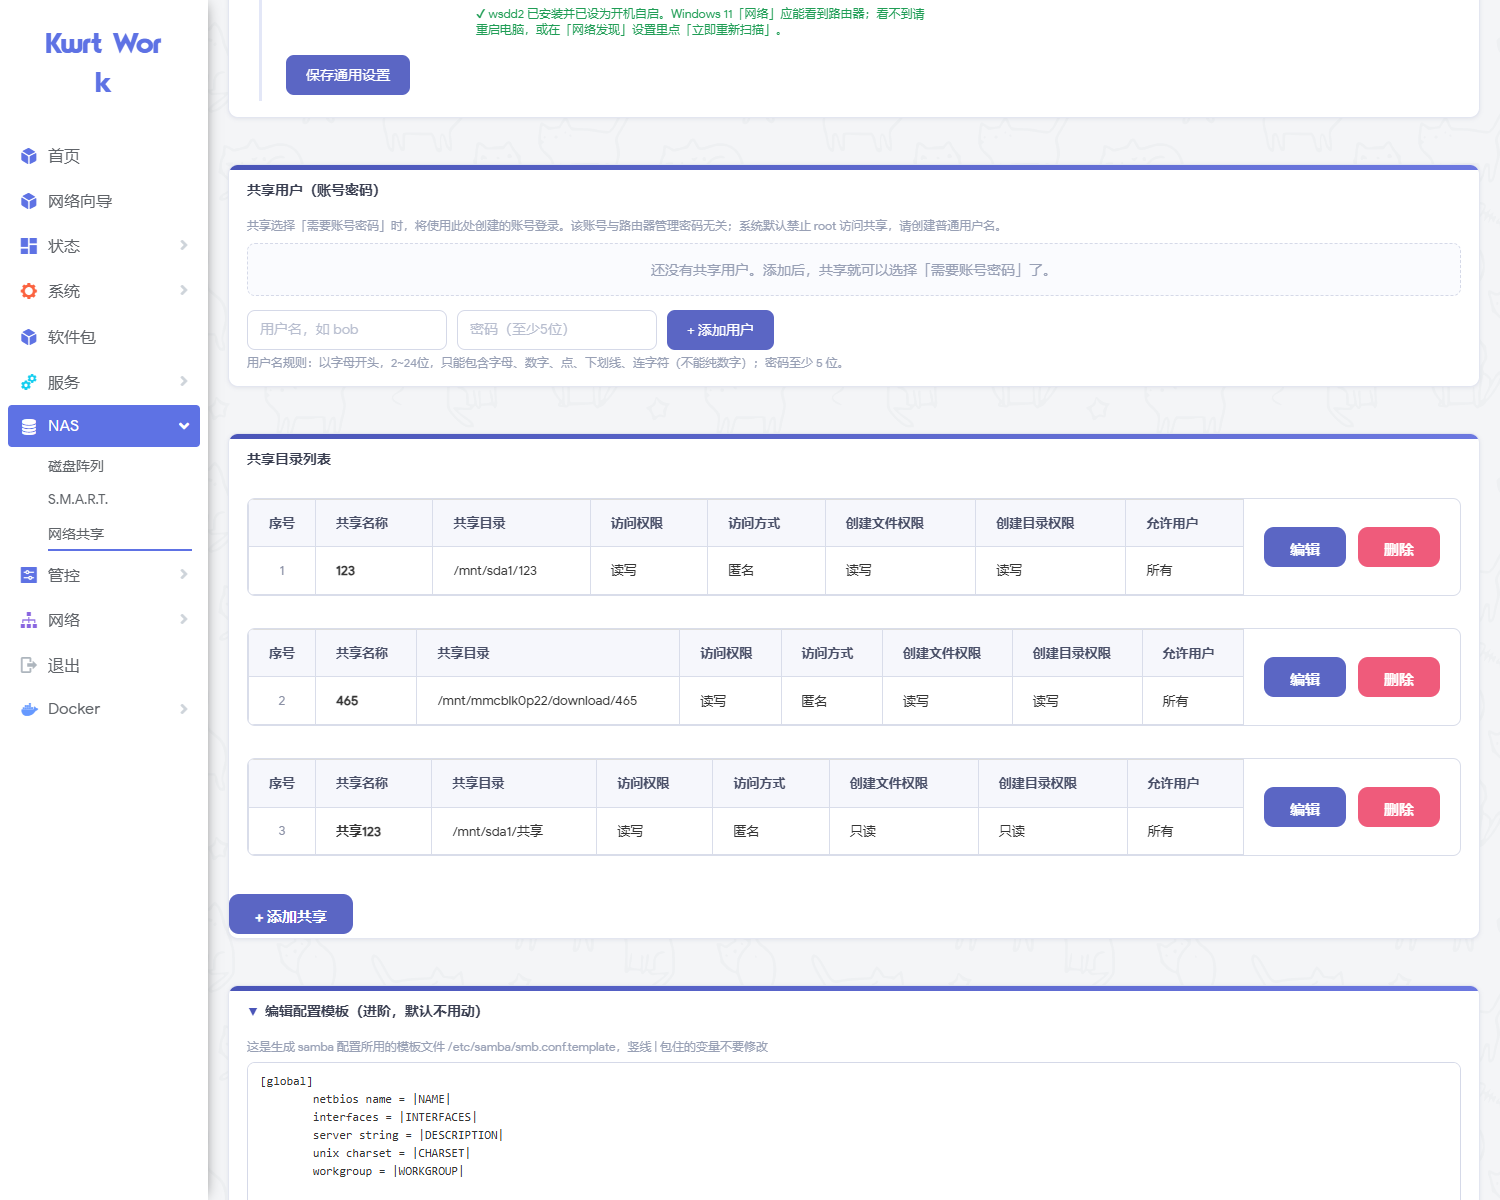
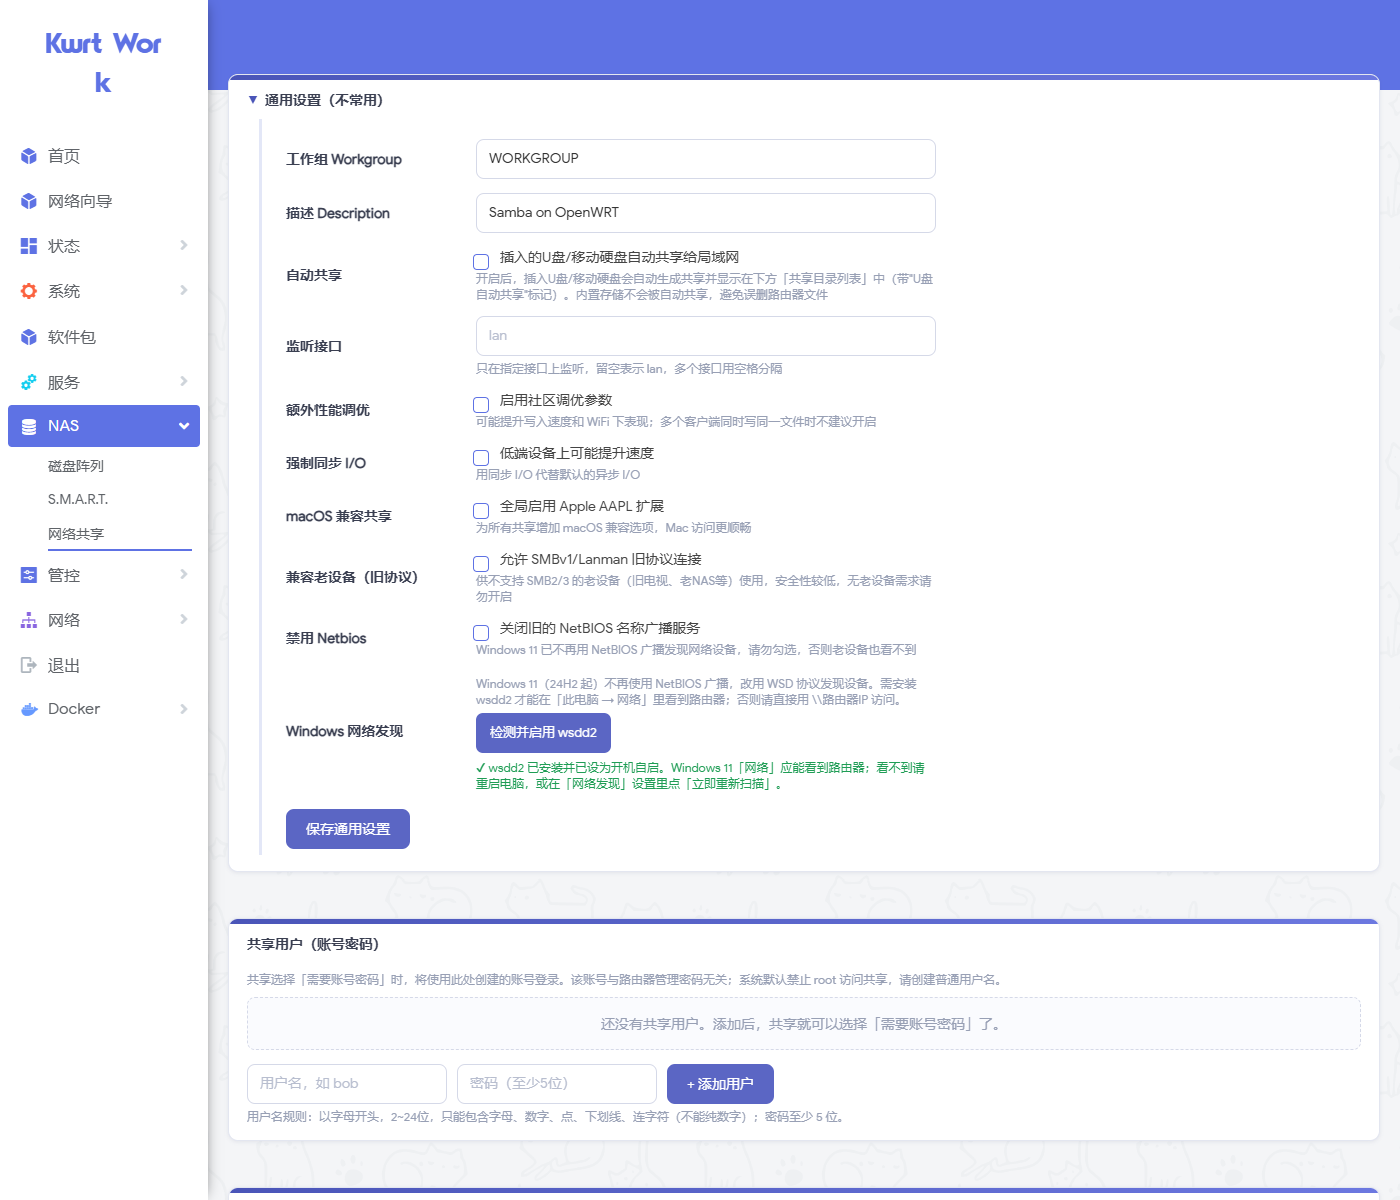
fix: 通用设置卡片改为默认折叠
通用设置属于低频操作，默认展开会挤占共享列表的显示空间。
改为默认折叠（与「编辑配置模板」一致），点击标题栏仍可正常展开。
wsdd2 状态检测在渲染时即执行，折叠状态下已完成，展开即见结果。

diff --git a/files/samba4.js b/files/samba4.js
@@ -183,11 +183,12 @@ return view.extend({
 		var generalCard = E('div', { 'class': 'smb-card' });
 		generalCard.appendChild(E('div', { 'class': 'smb-card-topbar' }));
 
-		var gHead = E('div', { 'class': 'smb-card-head' }, [
+		/* 默认折叠：通用设置不常用，避免一进页面就占满屏幕 */
+		var gHead = E('div', { 'class': 'smb-card-head collapsed' }, [
 			E('span', { 'class': 'smb-arrow' }, '▼'),
 			_('通用设置（不常用）')
 		]);
-		var gBody = E('div', { 'class': 'smb-card-body' });
+		var gBody = E('div', { 'class': 'smb-card-body', 'style': 'display:none' });
 		gHead.addEventListener('click', function() {
 			gHead.classList.toggle('collapsed');
 			gBody.style.display = gHead.classList.contains('collapsed') ? 'none' : '';
